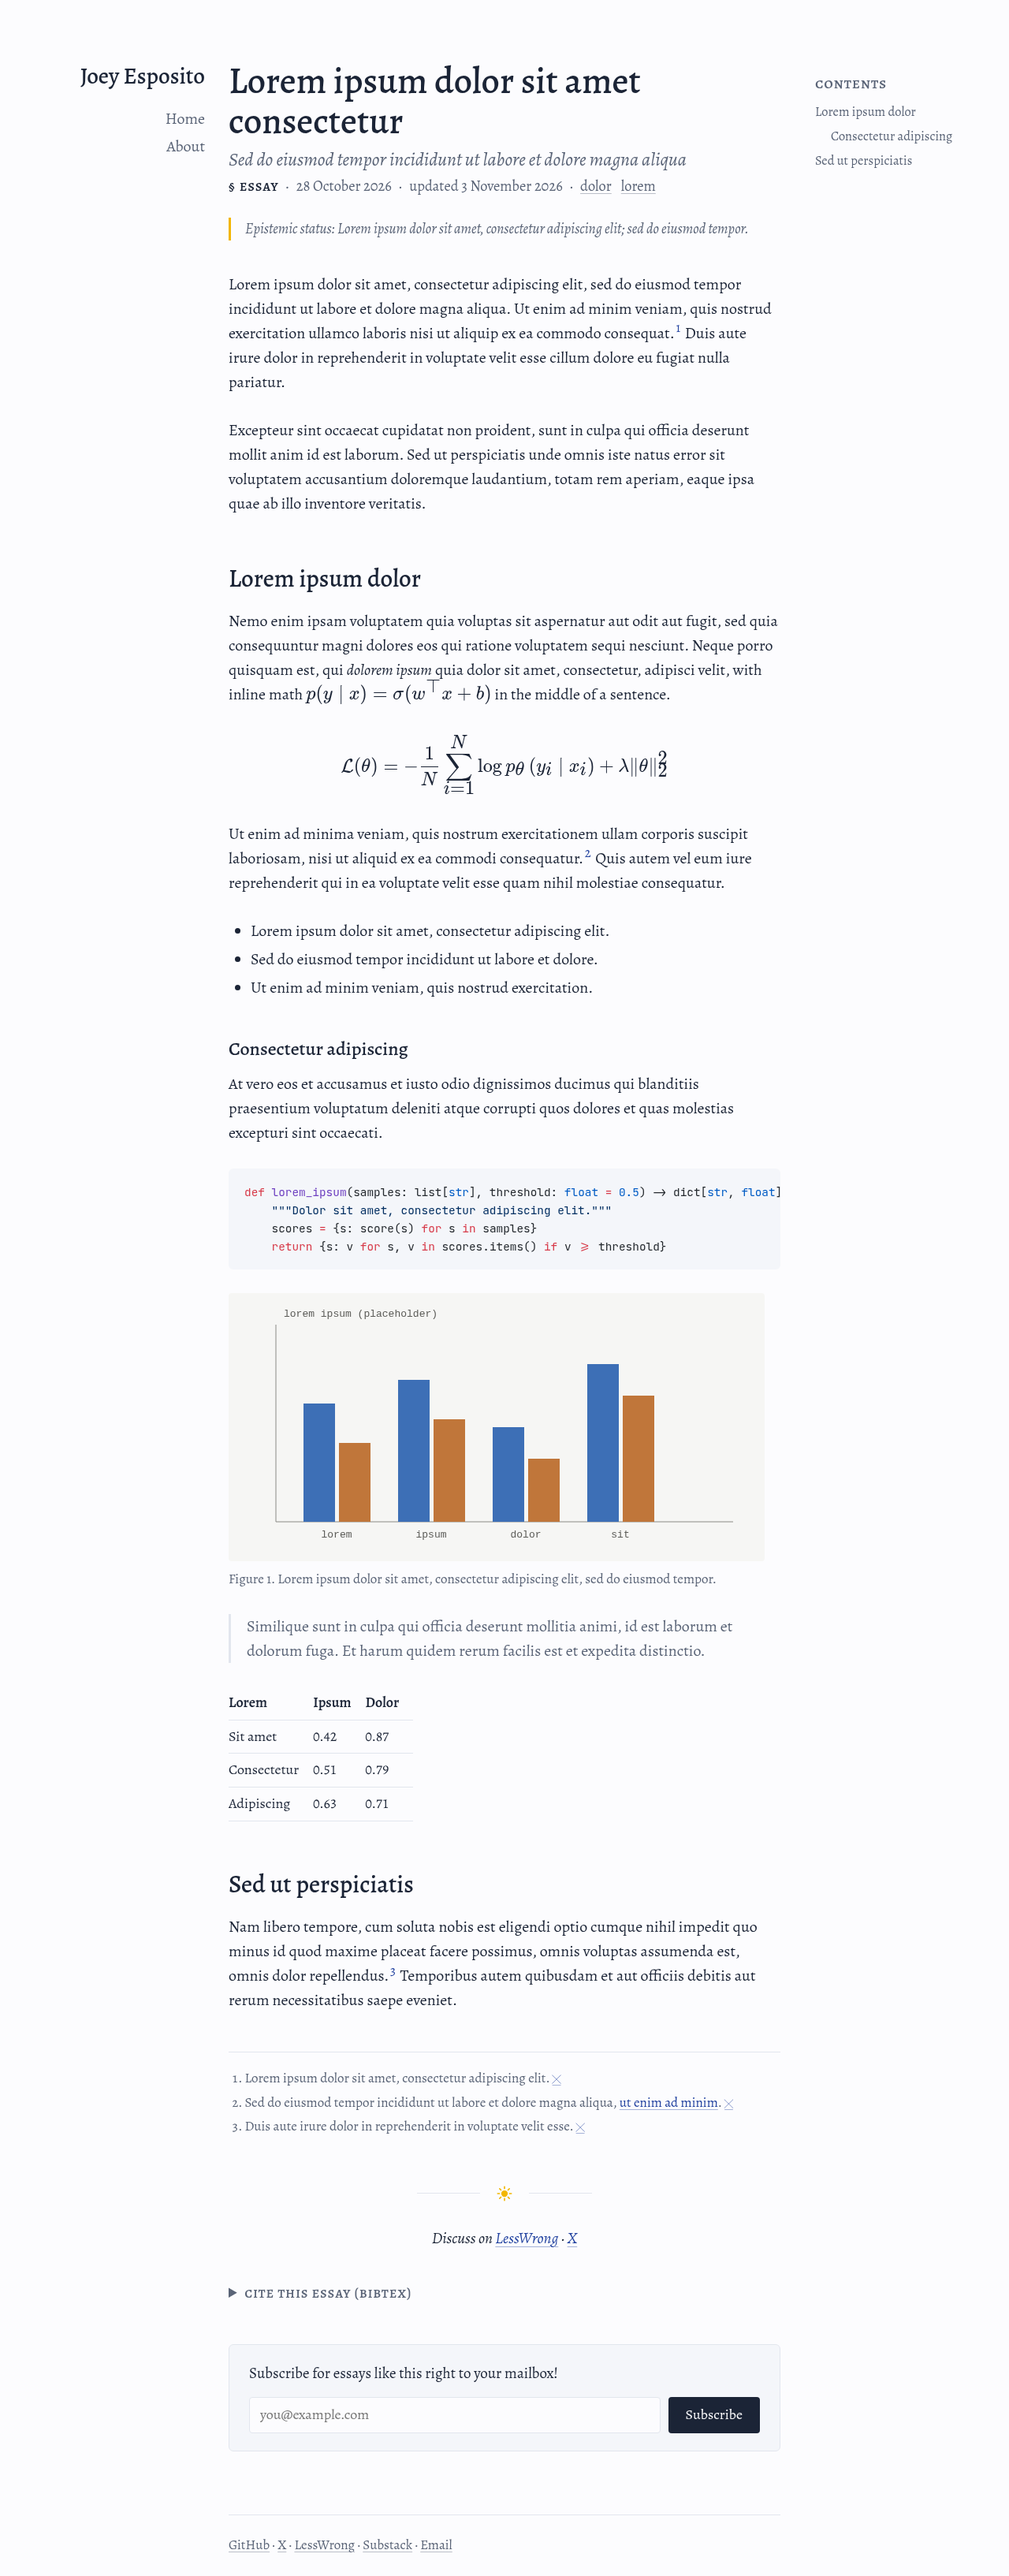
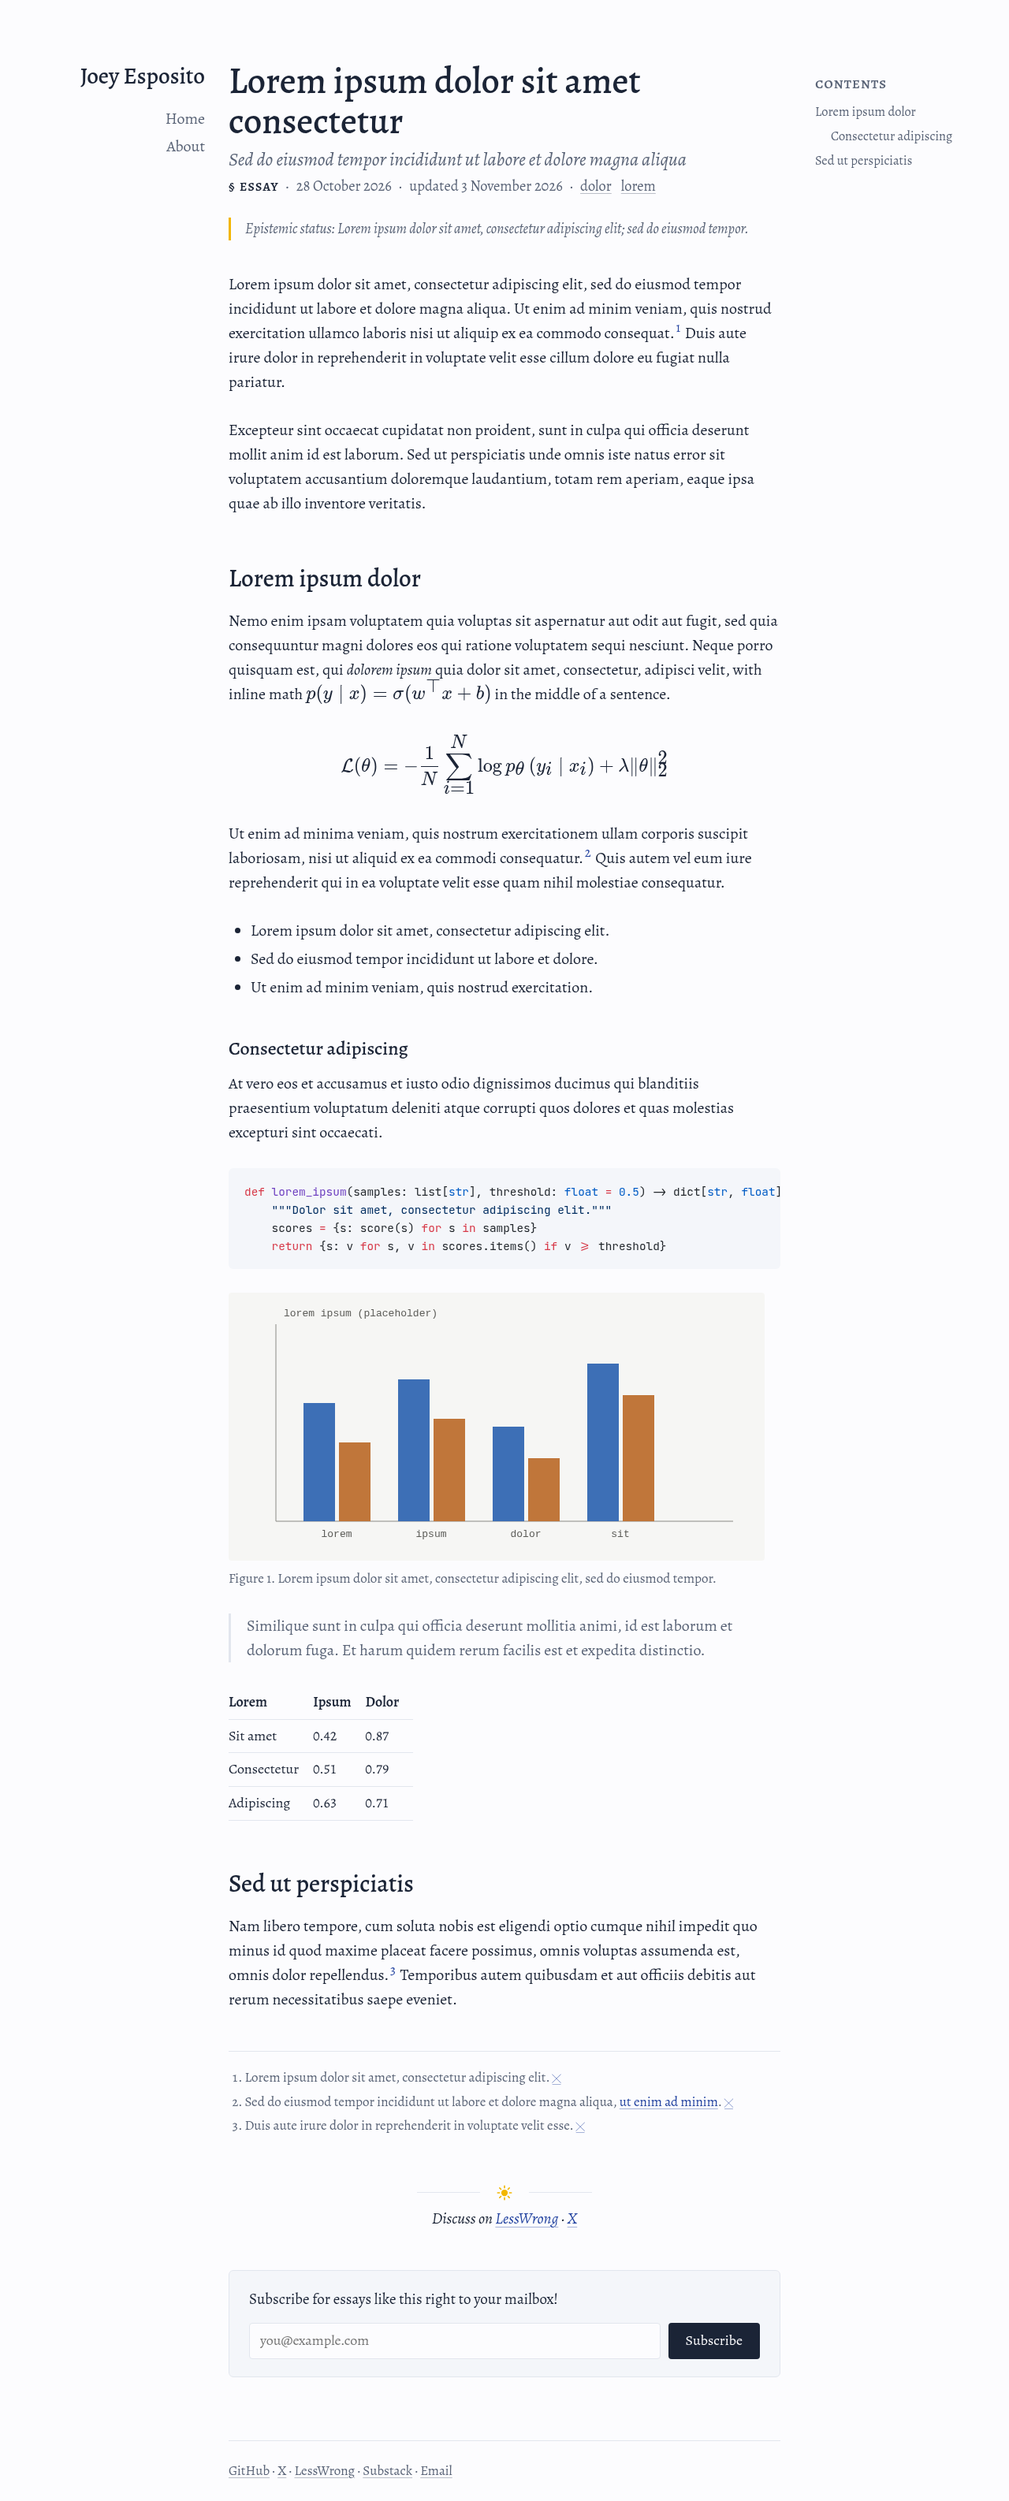
Remove the essay citation block; note the discussion links' spacing
Report-style essays keep their citation meta tags for Google Scholar.

diff --git a/src/lib/posts.ts b/src/lib/posts.ts
@@ -44,19 +44,3 @@ export function groupBy<T>(items: T[], key: (item: T) => string): [string, T[]][
   }
   return [...groups];
 }
-
-export function bibtex(post: Post, site: URL): string {
-  const { title, date } = post.data;
-  const year = date.getUTCFullYear();
-  const month = date.toLocaleDateString('en-GB', { timeZone: 'UTC', month: 'short' }).toLowerCase();
-  const firstWord = title.toLowerCase().match(/[a-z]+/)?.[0] ?? 'post';
-  return [
-    `@misc{esposito${year}${firstWord},`,
-    `  author = {Esposito, Joey},`,
-    `  title  = {${title}},`,
-    `  year   = {${year}},`,
-    `  month  = ${month},`,
-    `  url    = {${new URL(postUrl(post), site)}},`,
-    `}`,
-  ].join('\n');
-}

diff --git a/src/styles/global.css b/src/styles/global.css
@@ -280,9 +280,6 @@ body:has(.prose-page) .site-footer { margin-top: 2rem; }
 
 .discuss { margin: 2.5rem 0 0; text-align: center; font-style: italic; }
 .end-mark + .discuss { margin-top: 0; }
-.cite { margin-top: 2rem; }
-.cite summary { cursor: pointer; font-size: 0.95rem; color: var(--muted); }
-.cite pre { margin-top: 0.75rem; white-space: pre-wrap; }
 
 .signup { margin-top: 2.5rem; padding: 1.1rem 1.25rem; background: var(--code-bg); border: 1px solid var(--rule); border-radius: var(--radius); }
 .signup p { margin: 0 0 0.75rem; font-size: 0.95rem; }

diff --git a/DESIGN.md b/DESIGN.md
@@ -97,11 +97,10 @@ Meta 0.85–0.92rem. Inline code 0.8em; code blocks 0.72rem (14.4px).
 | Intro | `src/components/Intro.astro` | Prose paragraph in Joey's voice. The first words are set in small capitals (`.lede strong`). Links are underlined in sunflower; topic links open the list pre-filtered (`/?tag=…#writing`). No drop cap. |
 | PostFilters | `src/components/PostFilters.astro` | Radio groups Type (All/Essays/Projects/Notes), Topic (tags by frequency), Sort (Newest/Most popular). The post count is read to screen readers but not shown, except to say view counts are loading or unavailable. Hidden until its script runs. A type with no posts in the chosen topic fades. State is mirrored in the query string, so filtered views are linkable. Sort always shows "Newest"; "Most popular" appears once `VIEWS_URL` is set, and fetches the view counts once, and if they fail to load the list falls back to newest and says so. When nothing matches, "Nothing matches. Show everything" stands where the list would begin, in the first year divider's place and centred like it. |
 | PostList | `src/components/PostList.astro` | Under a "Writing" heading (centred below 80rem). Year dividers (centred year between hairlines) and ruled entries, spaced alike. At every width an entry's title, subtitle and topics are flush with the text's left edge, and its date, with the type directly beneath, stands at the right edge, the date's top level with the title's (both trimmed to the top of their letters with `text-box`); a year's divider takes the place of the rule under the entry above it, and the footer's rule closes the list: a title column (title link, a project's "→ host" repo link in mono, essay subtitle in italic, topic links in mono) and, at the right, a date column (date, type mark). Sorted by views, the dividers disappear and each date shows its year. |
-| Article | `src/components/Article.astro` | Post header (title, then subtitle and meta line set close beneath it, then epistemic status), contents, body, end mark, discussion links, citation, signup. |
+| Article | `src/components/Article.astro` | Post header (title, then subtitle and meta line set close beneath it, then epistemic status), contents, body, end mark, discussion links, signup. |
 | Contents | `src/components/Contents.astro` | Essays with two or more headings. Box above the text on narrow screens; sticky right rail on wide ones. |
 | EndMark | `src/components/EndMark.astro` | Small sun between two short rules, closing an essay. |
-| DiscussLinks | `src/components/DiscussLinks.astro` | "Discuss on LessWrong · X", centred italic, from the post's syndication URLs. |
-| CiteBlock | `src/components/CiteBlock.astro` | Folded "Cite this essay (BibTeX)" built from front matter. |
+| DiscussLinks | `src/components/DiscussLinks.astro` | "Discuss on LessWrong · X", centred italic, from the post's syndication URLs; set just under the end mark (8px below the sun). |
 | SubstackSignup | `src/components/SubstackSignup.astro` | Boxed email form at the end of essays, behind `SUBSTACK_SIGNUP` in `src/config.ts`. It submits to the Substack publication (`SUBSTACK_URL`) rather than embedding Substack's iframe, so it keeps the site's look. |
 | EvalCard | `src/components/EvalCard.astro` | Kind label, title, summary, a row of stats, links. Used by the evals page, unpublished for now. |
 
@@ -166,6 +165,8 @@ footer's "Email" link (hidden without JavaScript). Nothing else.
 13. Joey removed the JE avatar everywhere (header and social cards) and asked for one header
     on every page: the name with Writing and About beneath it. On the home page the header
     now keeps the same top as elsewhere rather than centring on the intro.
+14. Joey removed the "Cite this essay (BibTeX)" block. Report-style essays keep their
+    `citation_*` meta tags for Google Scholar.
 
 ## Notes
 
